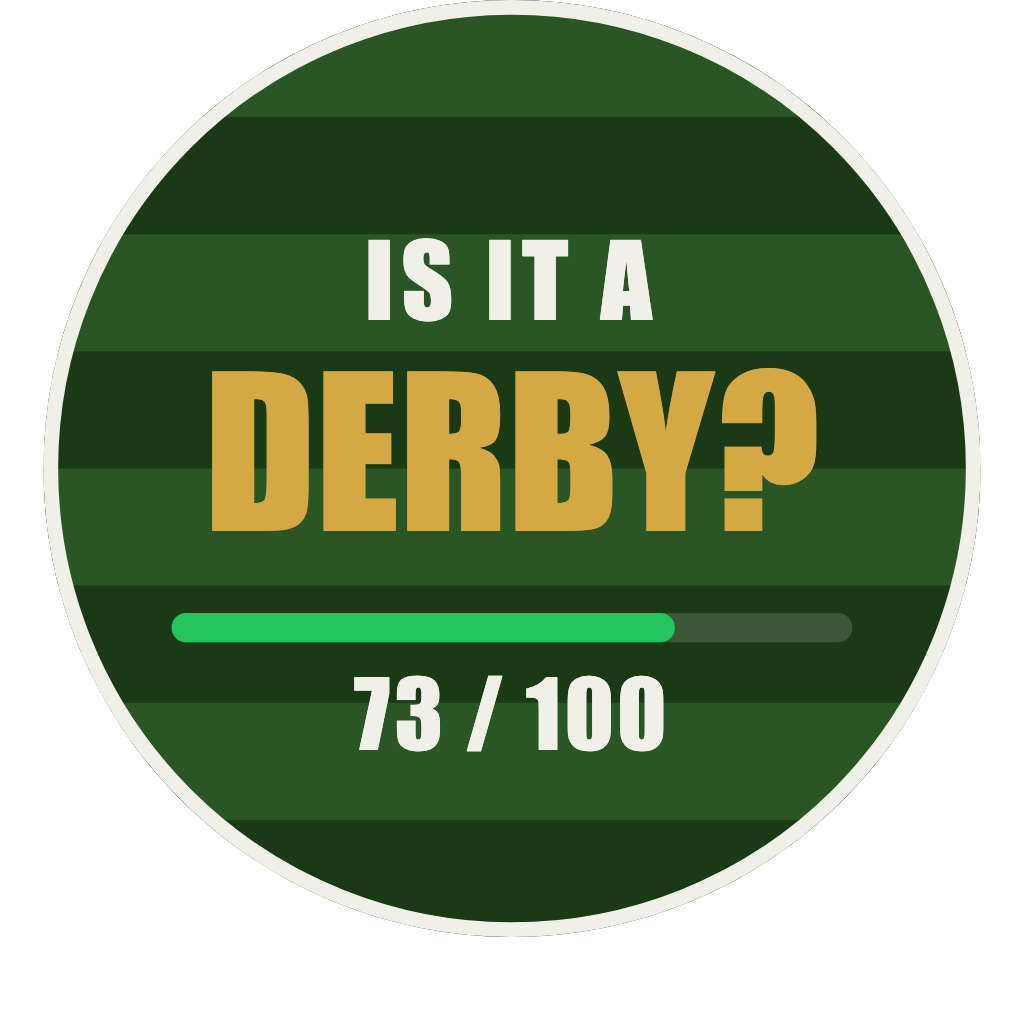
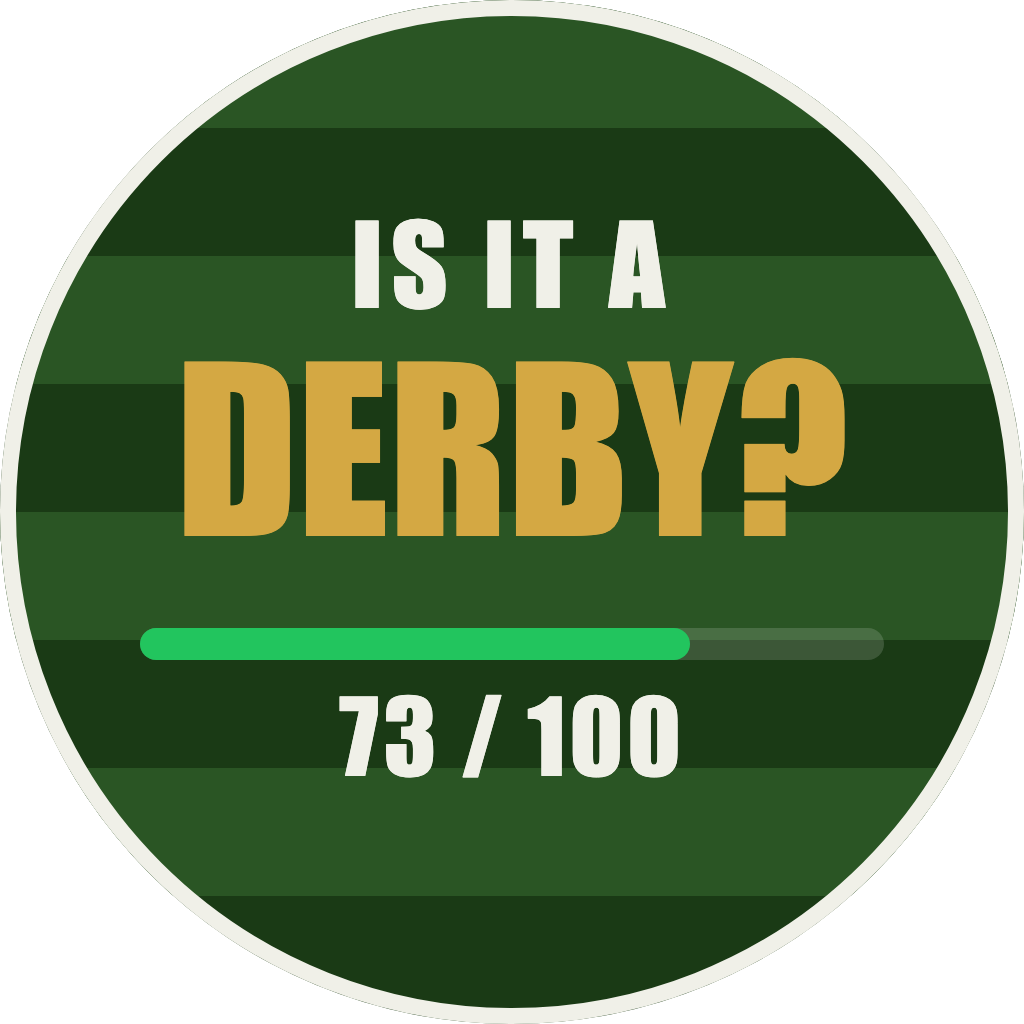
Fix profile pic centering for FB/X uploads
Two bugs caused the circle to look shifted up when uploaded:

1. Chrome headless was top-aligning the SVG in the rendering
   viewport, leaving 87px of empty space only at the bottom.
   FB/X's circular crop assumed centered content and revealed
   the offset.

2. Content inside the SVG was also ~21px below the canvas center
   (content vertical center was 277 vs canvas center 256).

Fixes:
- Render via HTML wrapper at 2048px viewport to force full SVG
  render, then crop to content bbox via PIL
- Shift all content up 21px so content visual center matches
  canvas center (IS IT A: 175→154, DERBY?: 290→268, bar: 335→314,
  73/100: 410→388)

Also saved a 400x400 version for convenient social upload.

diff --git a/assets/profile-pic/_render.html b/assets/profile-pic/_render.html
@@ -1,0 +1,31 @@
+<!DOCTYPE html>
+<html>
+<head>
+<meta charset="utf-8">
+<style>
+  html, body { margin: 0; padding: 0; background: transparent; }
+  body { width: 1024px; height: 1024px; display: flex; align-items: center; justify-content: center; }
+  svg { width: 1024px; height: 1024px; display: block; }
+</style>
+</head>
+<body>
+<svg xmlns="http://www.w3.org/2000/svg" viewBox="0 0 512 512" preserveAspectRatio="xMidYMid meet">
+  <defs>
+    <clipPath id="circleClip"><circle cx="256" cy="256" r="256"/></clipPath>
+  </defs>
+  <g clip-path="url(#circleClip)">
+    <rect width="512" height="512" fill="#1a3a15"/>
+    <rect x="0" y="0" width="512" height="64" fill="#2a5524"/>
+    <rect x="0" y="128" width="512" height="64" fill="#2a5524"/>
+    <rect x="0" y="256" width="512" height="64" fill="#2a5524"/>
+    <rect x="0" y="384" width="512" height="64" fill="#2a5524"/>
+    <text x="256" y="154" text-anchor="middle" font-family="'Bebas Neue','Impact','Arial Black',sans-serif" font-weight="900" font-size="55" fill="#f0f0e8" letter-spacing="4">IS IT A</text>
+    <text x="256" y="268" text-anchor="middle" font-family="'Bebas Neue','Impact','Arial Black',sans-serif" font-weight="900" font-size="110" fill="#d4a843" letter-spacing="0">DERBY?</text>
+    <rect x="70" y="314" width="372" height="16" rx="8" fill="#ffffff" opacity="0.15"/>
+    <rect x="70" y="314" width="275" height="16" rx="8" fill="#22c55e"/>
+    <text x="256" y="388" text-anchor="middle" font-family="'Bebas Neue','Impact','Arial Black',sans-serif" font-weight="900" font-size="50" fill="#f0f0e8" letter-spacing="2">73 / 100</text>
+  </g>
+  <circle cx="256" cy="256" r="252" fill="none" stroke="#f0f0e8" stroke-width="8"/>
+</svg>
+</body>
+</html>
